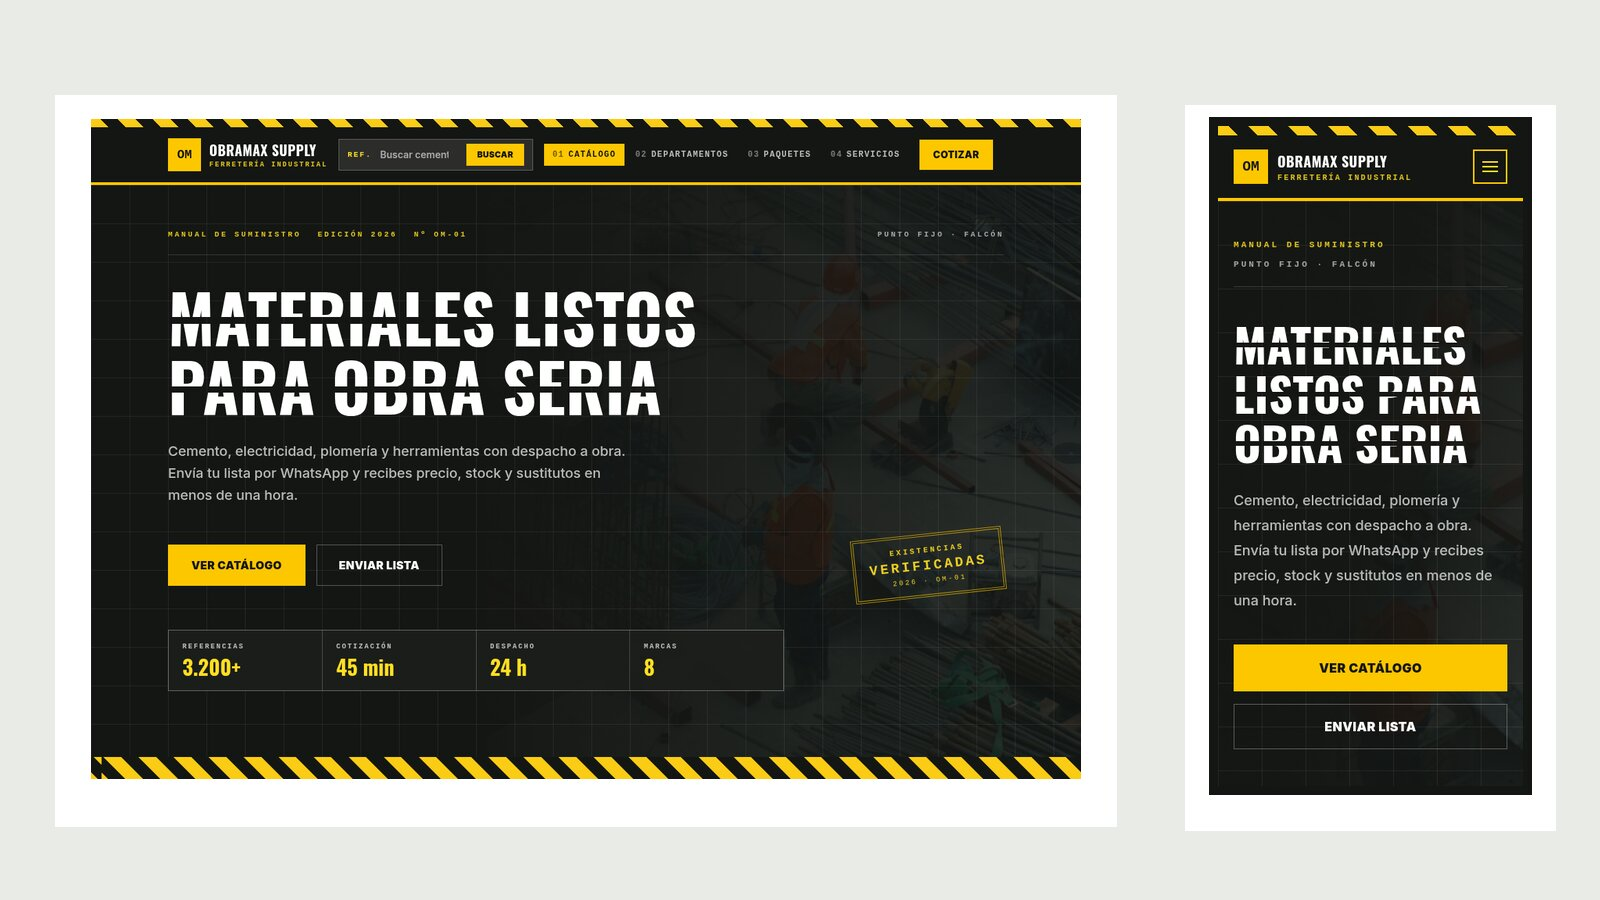
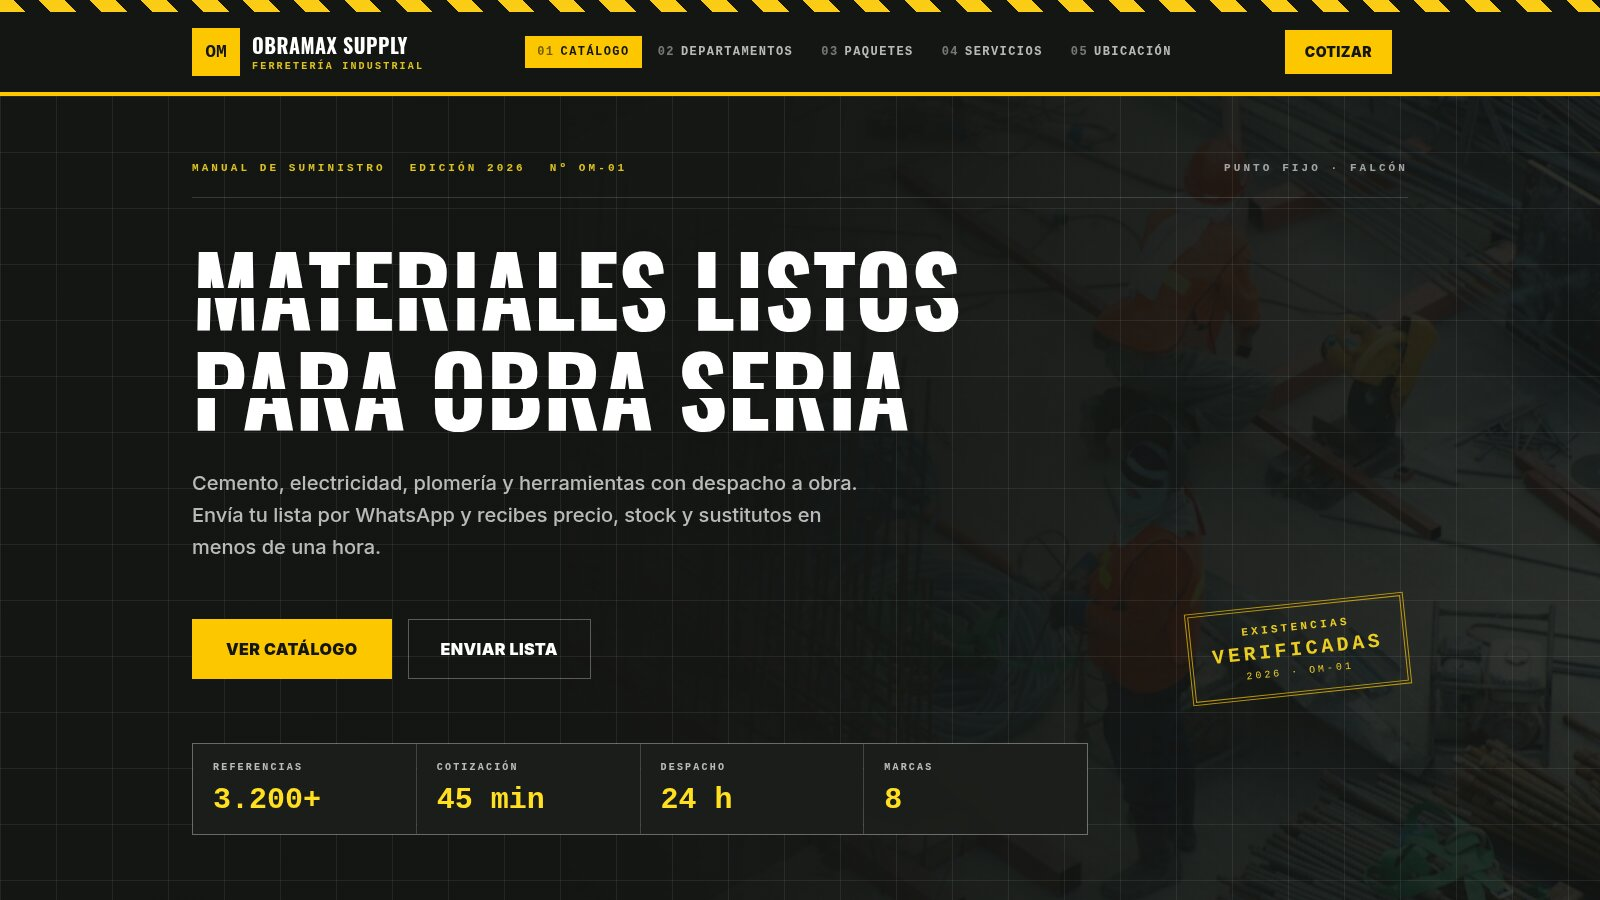
docs: portada nueva tras motion y mapa

diff --git a/README.md b/README.md
@@ -4,7 +4,7 @@
 
 [![CI](https://github.com/AvilaCarlosDev/web-ferreteria-demo/actions/workflows/ci.yml/badge.svg)](https://github.com/AvilaCarlosDev/web-ferreteria-demo/actions/workflows/ci.yml) [![Licencia: MIT](https://img.shields.io/badge/licencia-MIT-green.svg)](LICENSE) [![Demo en vivo](https://img.shields.io/badge/demo%20en%20vivo-Vercel-000?logo=vercel)](https://agencia-web-ferreteria-demo.vercel.app)
 
-<a href="https://agencia-web-ferreteria-demo.vercel.app"><img src="docs/portada.jpg" alt="ObraMax en la computadora y en el teléfono: portada con productos, cotización y pedido por WhatsApp" width="100%"></a>
+<a href="https://agencia-web-ferreteria-demo.vercel.app"><img src="docs/portada.jpg" alt="ObraMax Supply: portada con titular estarcido, catálogo y cifras de suministro" width="100%"></a>
 
 Sitio web de demostración, de una sola página: ferretería industrial con catálogo técnico, paquetes de obra y cotización por WhatsApp.
 

diff --git a/README.en.md b/README.en.md
@@ -4,7 +4,7 @@
 
 [![CI](https://github.com/AvilaCarlosDev/web-ferreteria-demo/actions/workflows/ci.yml/badge.svg)](https://github.com/AvilaCarlosDev/web-ferreteria-demo/actions/workflows/ci.yml) [![License: MIT](https://img.shields.io/badge/license-MIT-green.svg)](LICENSE) [![Live demo](https://img.shields.io/badge/live%20demo-Vercel-000?logo=vercel)](https://agencia-web-ferreteria-demo.vercel.app)
 
-<a href="https://agencia-web-ferreteria-demo.vercel.app"><img src="docs/portada.jpg" alt="ObraMax on desktop and phone: home page with products, quote and WhatsApp order" width="100%"></a>
+<a href="https://agencia-web-ferreteria-demo.vercel.app"><img src="docs/portada.jpg" alt="ObraMax Supply hero with stencil headline, catalog CTA and supply figures" width="100%"></a>
 
 Demo one-page website for an industrial hardware store: a technical catalog, job-site bundles and quotes by WhatsApp.
 
